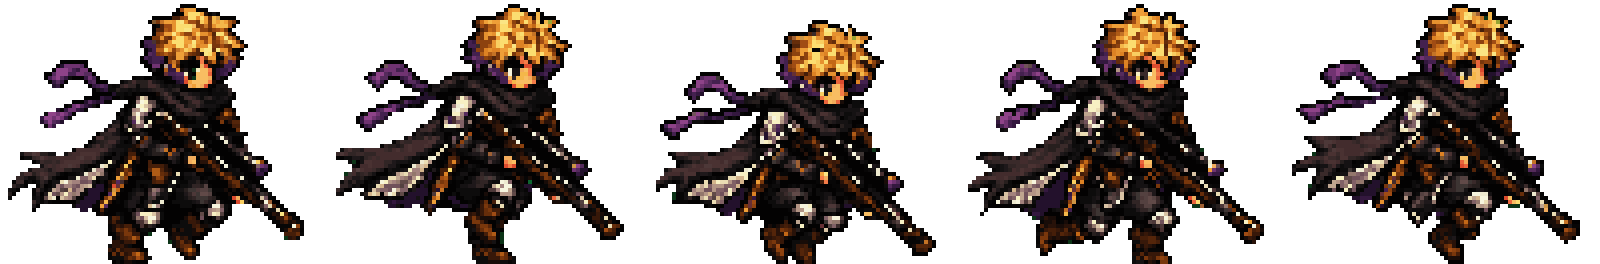
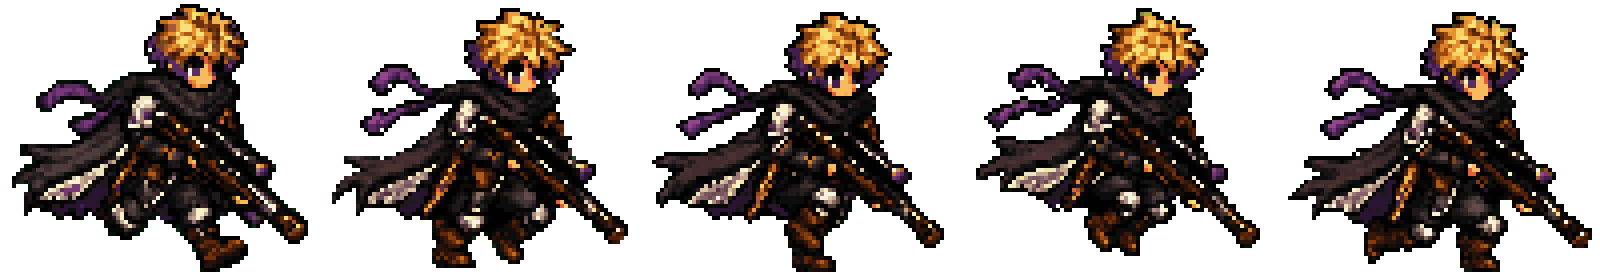
マークスマン歩き/走り/立ちをコマ割り修正版で差し替え (v0.25.1636)
社長がコマ割りを直した最終ドットシート(7fa37e7b=走り/a38da3bf=歩き)を提供。
ループ(再生順)は元の設定=ピンポンのままでよいとの決定 → シーケンスの
コードは不変(playerRunSequence/playerWalkSequence 変更なし)。絵だけ差し替え。

- 両シート 62/64色・run=4の倍数=ドット確認 → ÷4 NEAREST・幅78・足元下端・
  bbox中央。走りはCH69(最長67px)、歩きCH66。幅78共通=同スケール。立ち=歩き2コマ目。
- 差し替え: player-magnum-{walk-0..4,run-0..4,idle}.png。
- 元シート退避: art_src/originals/marksman/{run,walk}-sheet-dot.png を最終版で上書き。
- ASSET_VERSION 35→36。

検証: typecheck clean。

Claude-Session: https://claude.ai/code/session_01QmCwCeqFXebghKeaoHd8Kz

diff --git a/src/config/assetVersion.ts b/src/config/assetVersion.ts
@@ -61,4 +61,6 @@
 //      歩きと同じ幅78キャンバス(playerBaseScale同一=同サイズ)・足元揃え。構え=native scaleのしゃがみ(低い)。走りはまだ旧。
 // v35: マークスマンの走り5コマ(player-magnum-run-0..4)もドット保持で焼き直し(aimeglio_5・÷4 NEAREST・78×66)。
 //      →マークスマンは歩き/立ち/近接/走り 全モーションがドットで完備。他3クラスは未対応。
-export const ASSET_VERSION = '35';
+// v36: マークスマンの歩き/走り/立ちを、社長がコマ割りを直した最終シート(7fa37e7b=走り/a38da3bf=歩き)で
+//      再焼き直し(÷4 NEAREST・幅78。走りはCH69)。立ち=歩き2コマ目。再生順(ループ)は元のピンポンのまま=社長指示。
+export const ASSET_VERSION = '36';

diff --git a/src/data/changelog.ts b/src/data/changelog.ts
@@ -8,6 +8,12 @@ export interface ChangelogEntry {
 
 export const CHANGELOG: ChangelogEntry[] = [
   {
+    version: '0.25.1636',
+    items: [
+      'マークスマンの歩き・走り・立ち絵を、コマ割りを直した最終ドットシートで差し替え(再生の折り返し=ループは従来どおり)。',
+    ],
+  },
+  {
     version: '0.25.1635',
     items: [
       '歴史年表をローディング画面でも表示するように(文字は白のまま、暗転の暗幕より前面で見えます)。',

diff --git a/DEVELOPMENT_LOG.md b/DEVELOPMENT_LOG.md
@@ -12,6 +12,14 @@ on the zombie game. Append a new entry after each meaningful change.
 - Local URL: `http://localhost:5173/zombie/` unless Vite chooses another port
 - Renderer under active development: PixiJS only
 
+## v0.25.1636 — マークスマン歩き/走り/立ちをコマ割り修正版で差し替え【2026-07-12 22:53 JST】
+- **経緯**: 走りの再生がおかしい件を調査→マークスマンは歩きも走りも既定で**ピンポン再生**[0,1,2,3,4,3,2,1]と判明。社長が**コマ割りを直した最終シート**(7fa37e7b=走り1600×272 / a38da3bf=歩き1400×264)を提供。
+- **社長決定**: **ループ(再生順)は元の設定=ピンポンのまま**でよい → `playerRunSequence`/`playerWalkSequence` は**不変**(コード変更なし)。絵だけ差し替え。
+- **ベイク**: 両シートとも 62/64色・run=4の倍数=ドット確認 → ÷4 NEAREST・幅78・足元下端・bbox中央。走りは最長67pxのため **CH=69**(歩きはCH66)。幅78共通=playerBaseScale同一=同スケール。立ち=歩き2コマ目(frame1)。
+- **差し替え**: `player-magnum-{walk-0..4,run-0..4,idle}.png`。元シート退避 `art_src/originals/marksman/{run,walk}-sheet-dot.png` を最終版で上書き。**ASSET_VERSION 35→36**。
+- **判定/名前の注記**: 2枚とも upload時にファイル名の区別部分(日本語?)が `__` に置換され両方 `marks__.png` で到着→**ポーズ+幅で A=走り(1600)/B=歩き(1400)** と判定して割り当て。
+- 検証: **typecheck clean**。負荷0/10。実機で 歩き/走りのコマ割りが直ったか(ピンポンでも自然か)を社長確認。他3クラスは未対応(素材待ち)。
+
 ## v0.25.1635 — 歴史年表をローディング画面でも表示【2026-07-12 22:48 JST】
 - **社長指示**「履歴をローディング画面でも表示しておいて。白を保ったまま」。
 - `TitleScreen.tsx`: `ChronicleTimeline` の表示条件を `phase === 'title'` → **`phase === 'title' || phase === 'loading'`** に拡張。
